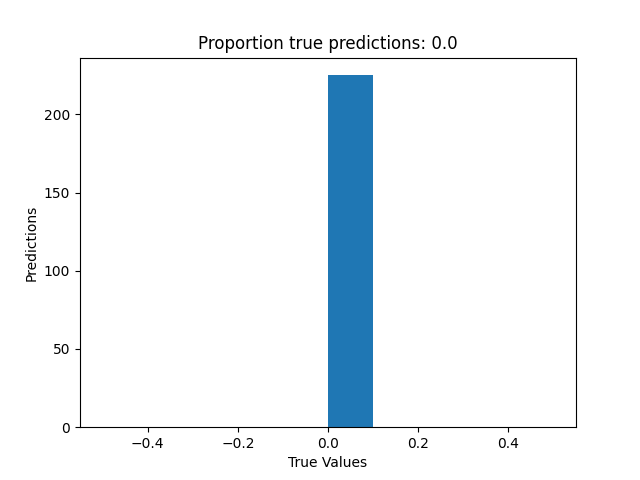
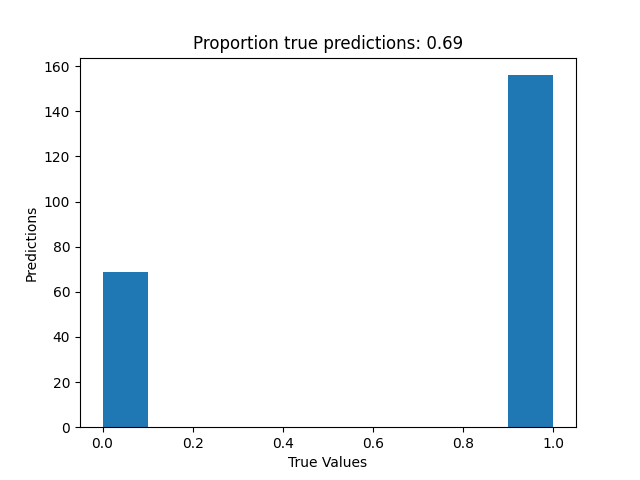
update

diff --git a/gen_training_data.py b/gen_training_data.py
@@ -138,10 +138,10 @@ def experimentPartOneWrapper():
     # print("input", splitDF["input"].shape)
     # print("target", splitDF["target"].shape)
     # generate input data
-    inputdata = makeFSCdataset(splitDF["input"], numberOfCells=50)
+    inputdata = makeFSCdataset(splitDF["input"], numberOfCells=5)
     # print(inputdata)
     # generate target data
-    targetdata = makeFSCdataset(splitDF["target"], numberOfCells=100)
+    targetdata = makeFSCdataset(splitDF["target"], numberOfCells=10)
     # targetdata = pd.concat([targetdata, makeFSCdataset(splitDF["target"], numberOfCells=5)])
     # print(targetdata)
     return concatDF, splitDF, inputdata, targetdata
@@ -1197,31 +1197,33 @@ def experimentPartFiveWrapper():
 
     inputdata = inputdata.loc[
         inputdata.index.get_level_values("Entity").isin(testNet.nodes())
-    ]
+    ] # rows = genes, cols = samples
 
     testNodes = sample(list(testNet.nodes()), 20)
 
     finalInput = pd.DataFrame()
     finalTarget = pd.DataFrame()
-    for testNode in testNodes:
+    for testNode in testNodes: #inputdata.index.get_level_values("Entity"):
         print(testNode)
         # get upstream nodes
         upstream = testNet.in_edges(testNode, data=True)
         upstream = [i[0] for i in upstream]
         print(upstream)
         # subset input data
-        testInput = inputdata.iloc[
-            inputdata.index.get_level_values("Entity").isin(upstream)
-        ].T.astype(
-            "int"
-        )
+        #testInput = inputdata.iloc[
+        #    inputdata.index.get_level_values("Entity").isin(upstream)
+        #].T.astype(
+        #    "int"
+        #) # rows = samples, cols = genes
+        testInput = inputdata.T
         # subset target data
         testTarget = targetdata.iloc[
             targetdata.index.get_level_values("Entity").isin([testNode])
-        ].T.astype("int")
+        ].T.astype("int") # rows = samples, cols = genes
         adj = testAdj[testNode]
-        for i in range(len(testInput.index)):
-            testInput.iloc[i] = [j*k for j,k in zip(adj, testInput.iloc[i])]
+        for i in testInput.columns.get_level_values('Entity'): 
+            for l in testInput.columns.get_level_values('Type'): 
+                testInput[l, i] = [j*k for j,k in zip(adj, testInput[l, i])]
         if finalInput.shape == (0,0):
             finalInput = testInput
             finalTarget = testTarget
@@ -1263,8 +1265,8 @@ def experimentPartFiveWrapper():
         optimizer="adam",
         loss="mean_absolute_error",
         metrics=[
-            tensorflow.keras.metrics.AUC(),
-            tensorflow.keras.metrics.FalsePositives(),
+            #tensorflow.keras.metrics.AUC(),
+            #tensorflow.keras.metrics.FalsePositives(),
             # tensorflow.keras.metrics.FalseNegatives(),
             tensorflow.keras.metrics.BinaryAccuracy(),
             # tensorflow.keras.metrics.Recall(),
@@ -1274,8 +1276,8 @@ def experimentPartFiveWrapper():
     n_samples = len(testInput.index)
     trainingSamples = sample(range(0, n_samples), floor(3 * n_samples / 4))
     testSamples = list(set(range(0, n_samples)).difference(set(trainingSamples)))
-    X = pd.DataFrame(testInput.astype(np.float32))#.iloc[trainingSamples]
-    y = pd.DataFrame(testTarget.astype(np.float32))#.iloc[trainingSamples]
+    X = pd.DataFrame(testInput.astype(np.float32)).iloc[trainingSamples]
+    y = pd.DataFrame(testTarget.astype(np.float32)).iloc[trainingSamples]
     training = model.fit(
         x=X,
         y=y,
@@ -1351,7 +1353,13 @@ def experimentPartFiveWrapper():
     print(answer)
     print(sum([1 if i == j else 0 for i, j in zip(test_predictions, answer)])/len(answer))
 
+def importanceScore():
+    # generate fake input data
+    # generate fake target data
+    return None
 
+def simulation():
+    return None
 
 if __name__ == "__main__":
     """
@@ -1373,6 +1381,179 @@ if __name__ == "__main__":
     experimentPartThreeWrapper()
 
     experimentPartFourWrapper()
-    
-    """
+
     experimentPartFiveWrapper()
+    """
+
+    # prepare data
+    concatDF, splitDF, inputdata, targetdata = experimentPartOneWrapper()
+    # prepare network
+
+    testNet = nx.read_graphml("large_hif1Agraph.graphml")
+    for n in testNet.nodes():
+        upstream = testNet.in_edges(n, data=True)
+        upstream = [i[0] for i in upstream]
+        #if len(upstream) == 0:
+        testNet.add_edge(n, n)
+    testAdj = nx.to_pandas_adjacency(testNet)
+    testAdj.sort_index(axis = 0, inplace =True)
+    testAdj.sort_index(axis = 1, inplace =True)
+    inputdata = inputdata.loc[
+        inputdata.index.get_level_values("Entity").isin(testNet.nodes())
+    ] # rows = genes, cols = samples
+
+    #testNodes = list(testNet.nodes())
+    testNodes = sample(list(testNet.nodes()), 10)
+
+    finalInput = pd.DataFrame()
+    finalTarget = pd.DataFrame()
+
+
+    for testNode in testNodes: #inputdata.index.get_level_values("Entity"):
+        #testNode = "CRKL"
+        #print(testNode)
+        # get upstream nodes
+        upstream = testNet.in_edges(testNode, data=True)
+        upstream = [i[0] for i in upstream]
+        print(upstream)
+        testInput = inputdata.T
+        # subset target data
+        testTarget = targetdata.iloc[
+            targetdata.index.get_level_values("Entity").isin([testNode])
+        ].T.astype("int") # rows = samples, cols = genes
+        adj = testAdj[testNode]
+        for i in set(testInput.columns.get_level_values('Entity')):
+            for l in set(testInput.columns.get_level_values('Type')):
+                testInput[l, i] = [adj[i]*k for k in testInput[l, i]]
+        if finalInput.shape == (0,0):
+            finalInput = testInput
+            finalTarget = testTarget
+            finalTarget.columns = ['Target']
+        else:
+            finalInput = pd.concat([testInput, finalInput], axis = 0)
+            testTarget.columns = ['Target']
+            finalTarget = pd.concat([testTarget, finalTarget], axis = 0)
+
+    print(finalInput.shape)
+    print(finalTarget.shape)
+
+    model = models.Sequential(
+        name="DeepNN",
+        layers=[
+            ### hidden layer 1
+            layers.Dense(
+                name="h1",
+                input_dim=len(finalInput.columns),
+                units=int((len(finalInput.columns))),
+                activation="tanh",
+            ),
+            layers.Dropout(name="drop1", rate=0.2),
+            ### hidden layer 2
+            layers.Dense(
+                name="h2",
+                units=int(round((len(finalInput.columns) + 1) / 2)),
+                activation="sigmoid",
+            ),
+            layers.Dropout(name="drop2", rate=0.2),
+            ### layer output
+            layers.Dense(name="output", units=1, activation="sigmoid"),
+        ],
+    )
+    model.summary()
+
+    # compile the neural network
+    model.compile(
+        optimizer="adam",
+        loss="mean_absolute_error",
+        metrics=[
+            #tensorflow.keras.metrics.AUC(),
+            #tensorflow.keras.metrics.FalsePositives(),
+            # tensorflow.keras.metrics.FalseNegatives(),
+            tensorflow.keras.metrics.BinaryAccuracy(),
+            # tensorflow.keras.metrics.Recall(),
+        ],
+    )
+
+    n_samples = len(finalInput.index)
+    trainingSamples = sample(range(0, n_samples), floor(3 * n_samples / 4))
+    testSamples = list(set(range(0, n_samples)).difference(set(trainingSamples)))
+    X = pd.DataFrame(finalInput.astype(np.float32)).iloc[trainingSamples]
+    y = pd.DataFrame(finalTarget.astype(np.float32)).iloc[trainingSamples]
+    training = model.fit(
+        x=X,
+        y=y,
+        batch_size=10,
+        epochs=1000,
+        shuffle=True,
+        verbose=0,
+        validation_split=0.3,
+    )
+
+    # plot
+    metrics = [
+        k for k in training.history.keys() if ("loss" not in k) and ("val" not in k)
+    ]
+    fig, ax = plt.subplots(nrows=1, ncols=2, sharey=True, figsize=(15, 3))
+
+    ## training
+    ax[0].set(title="Training")
+    ax11 = ax[0].twinx()
+    ax[0].plot(training.history["loss"], color="black")
+    ax[0].set_xlabel("Epochs")
+
+    ax[0].set_ylabel("Loss", color="black")
+    colors = ["blue", "red", "orange"]
+    i = 0
+    for metric in metrics:
+        color = colors[i]
+        i = i + 1
+        ax11.plot(training.history[metric], label=metric, color=color)
+    ax11.set_ylabel("Score", color="red")
+    ax11.legend()
+
+    ## validation
+    i = 0
+    ax[1].set(title="Validation")
+    ax22 = ax[1].twinx()
+    ax[1].plot(training.history["val_loss"], color="black")
+    ax[1].set_xlabel("Epochs")
+    ax[1].set_ylabel("Loss", color="black")
+    for metric in metrics:
+        ax22.plot(training.history["val_" + metric], label=metric, color=colors[i])
+        i = i + 1
+    ax22.set_ylabel("Score", color="red")
+    ax11.legend()
+    plt.savefig("testnet_training.png")
+    plt.close()
+
+    ## explainer_shap(model, upstream, X, X_train=X, task="regression", top=10)
+
+    answer = finalTarget.iloc[testSamples]
+    answer = answer.iloc[:, 0]
+    answer = answer.to_list()
+
+    test_predictions = np.round(model.predict(np.asarray(finalInput.iloc[testSamples]).astype('float32')))
+    plt.title(
+        "Proportion true predictions: "
+        + str(
+            round(
+                sum([1 if i == j else 0 for i, j in zip(test_predictions, answer)])
+                / len(answer),
+                2,
+            )
+        )
+    )
+    # plt.axes(aspect='equal')
+    plt.hist([int(int(i) == int(j)) for i, j in zip(answer, test_predictions)])
+    plt.xlabel("True Values")
+    plt.ylabel("Predictions")
+    # lims = [0, 1]
+    # plt.xlim(lims)
+    plt.savefig("testnet_predictions.png")
+    plt.close()
+    print(test_predictions)
+    print(answer)
+    print(sum([True if i == j else False for i, j in zip(test_predictions, answer)])/len(answer))
+
+    # test simulation
+    
